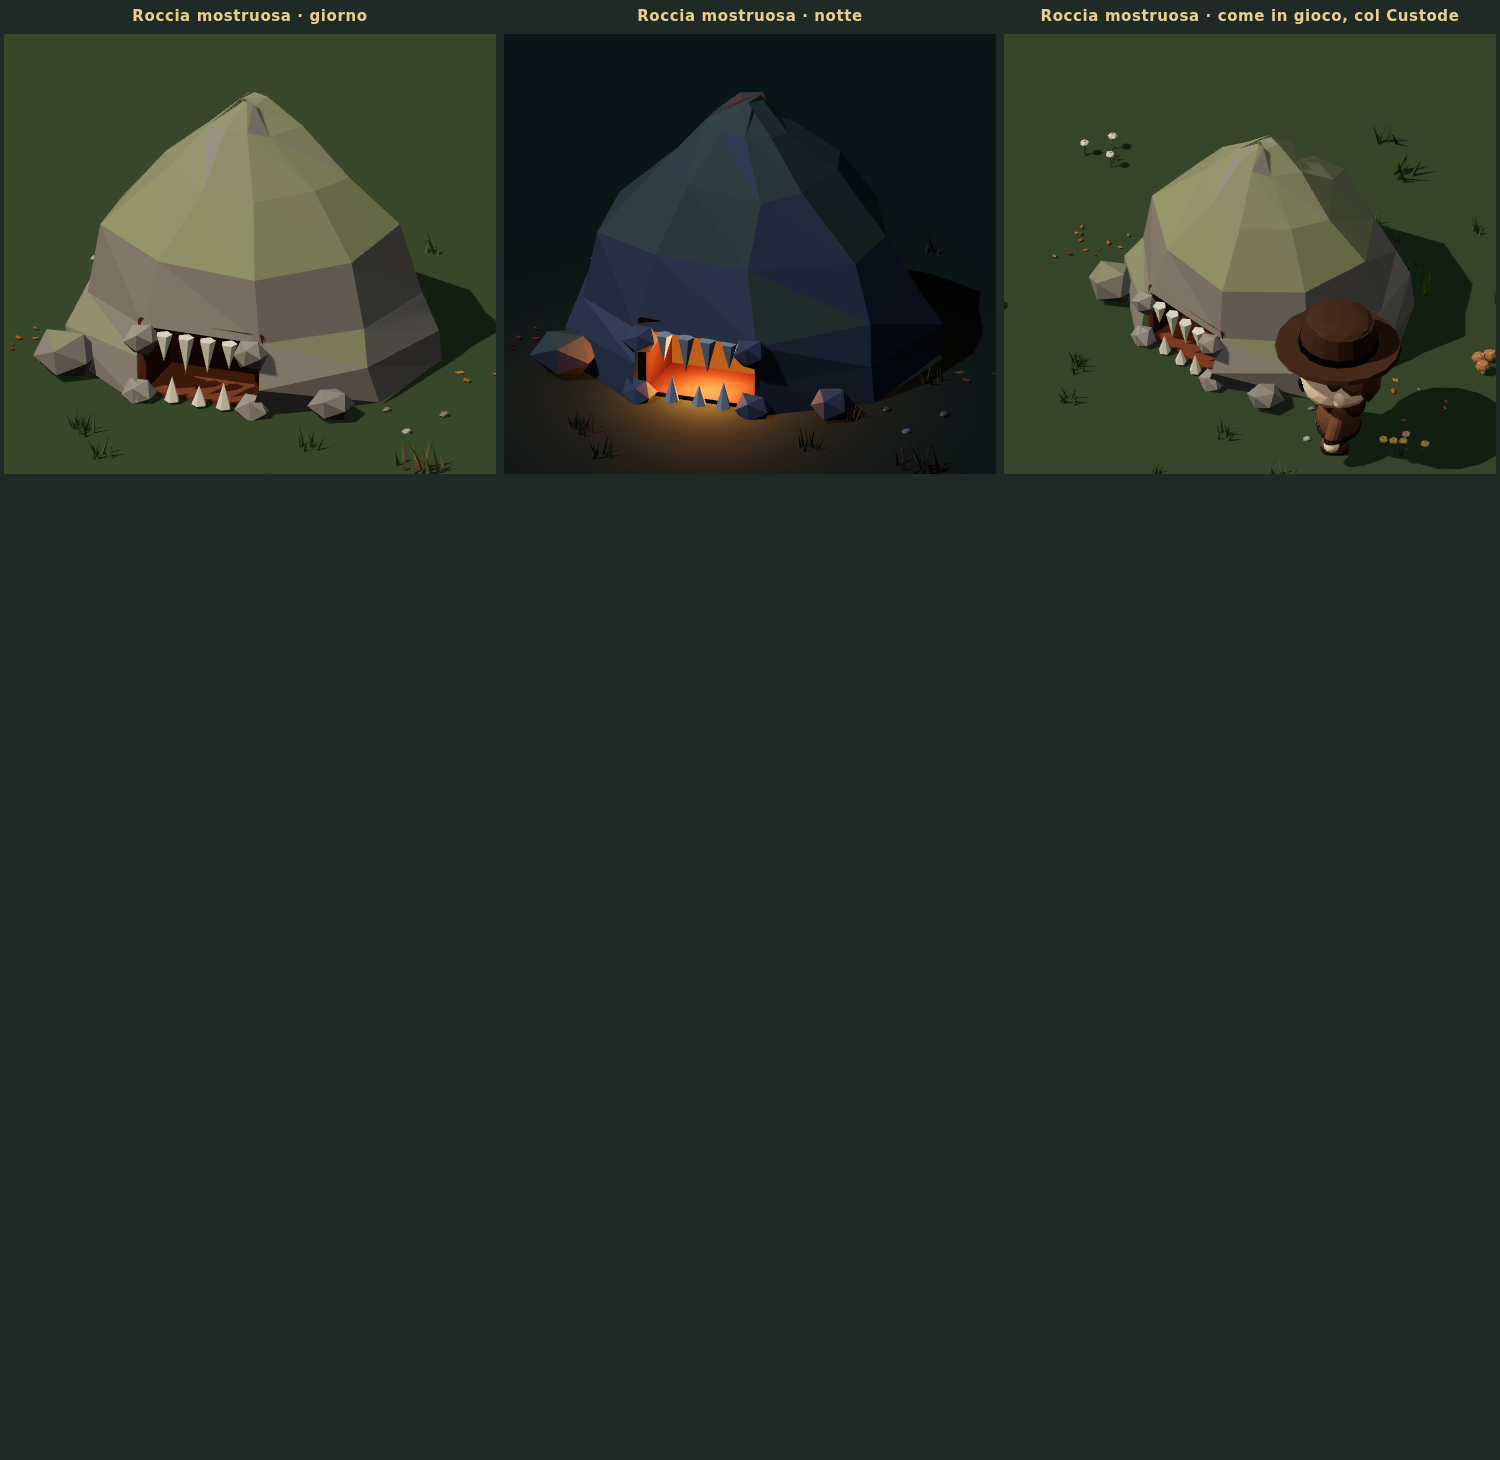
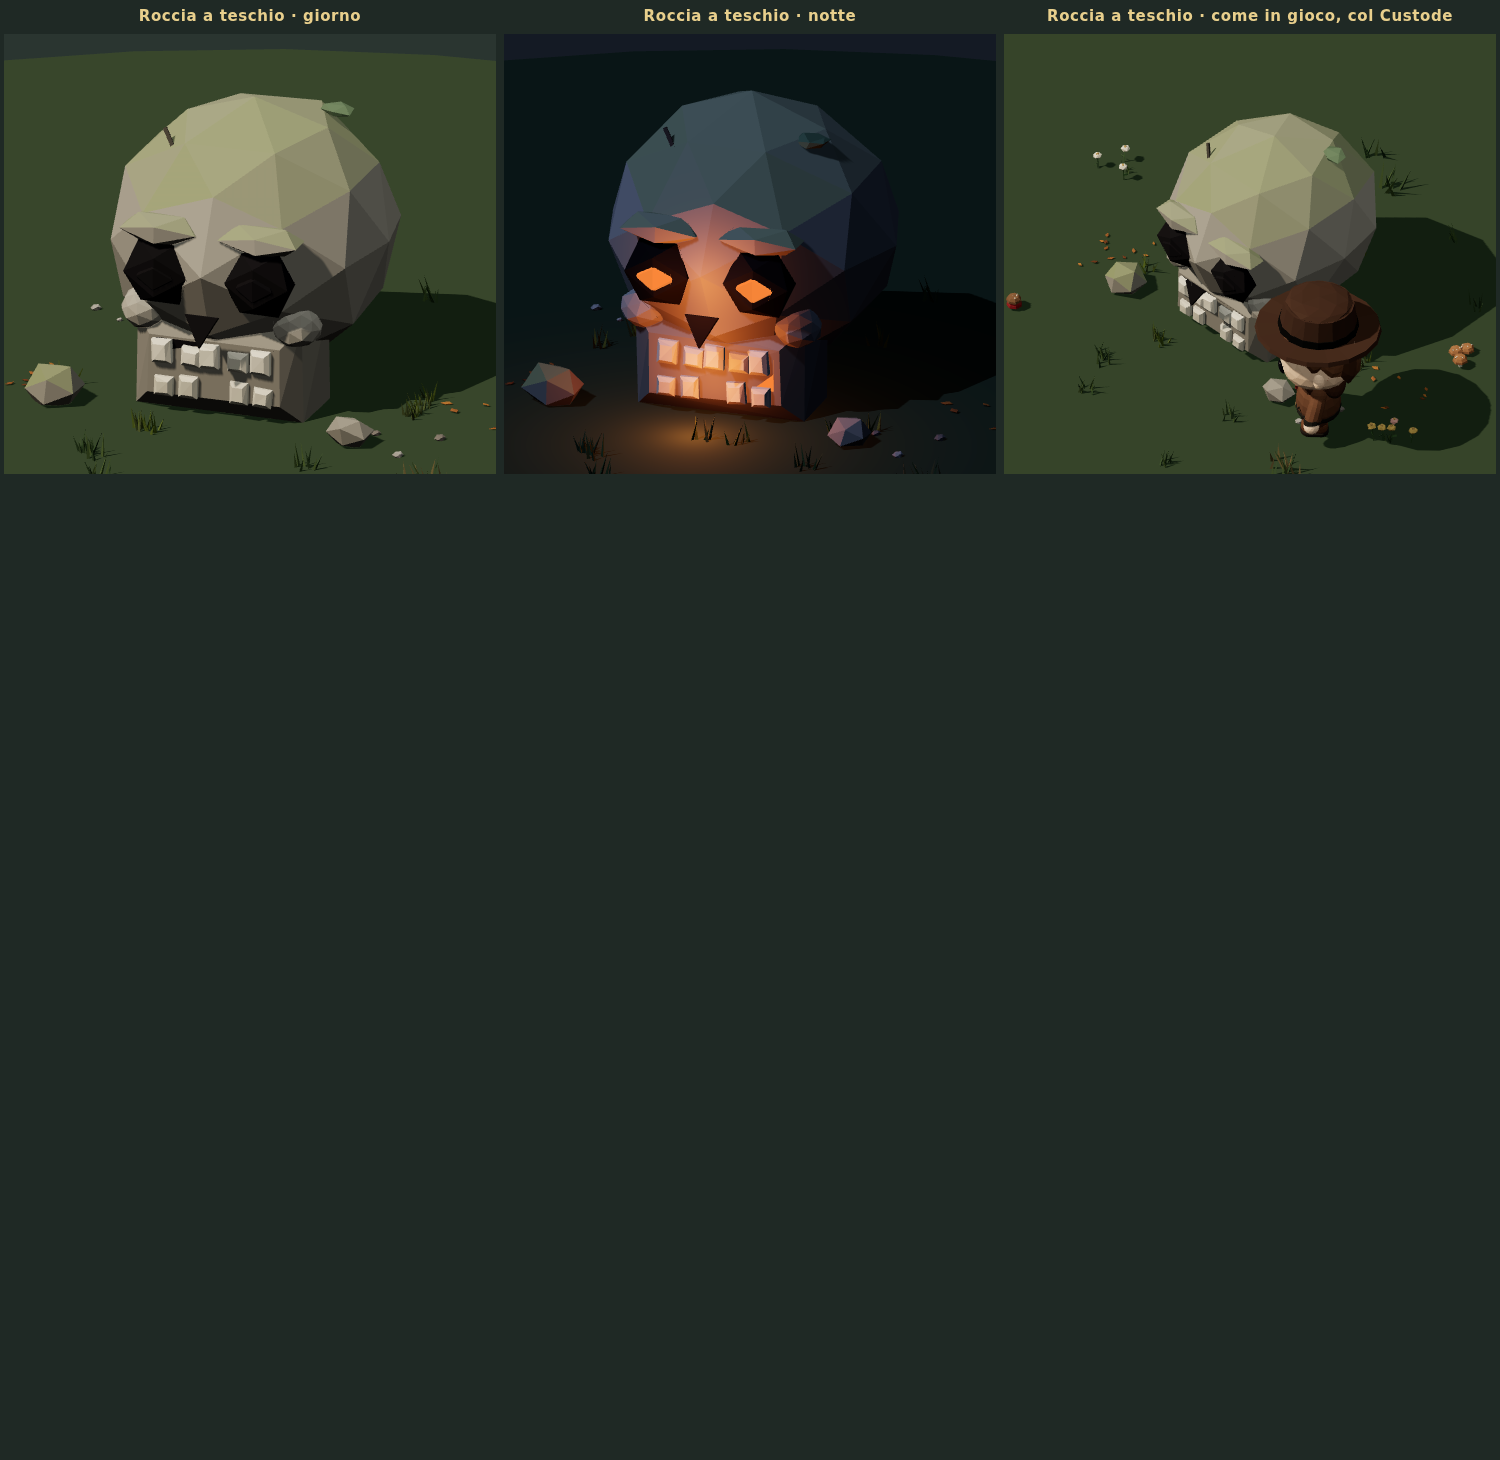
Anteprima: la roccia mostruosa diventa una roccia a teschio
Grande teschio di pietra mezzo interrato, col muschio sul cranio:
orbite profonde, naso a triangolo, denti un po' storti con la bocca buia
dietro, zigomi e arcate accennati, una crepa. Di notte orbite e bocca si
accendono.

Claude-Session: https://claude.ai/code/session_01U6u5RojYrwYjZd8sSRU7em

diff --git a/Prototype-3d/src/render/lowpoly/newItems2.ts b/Prototype-3d/src/render/lowpoly/newItems2.ts
@@ -475,42 +475,47 @@ export function witchAppleLP(lit = true): LPModel {
 }
 
 /**
- * Roccia mostruosa (3×3): una montagnola tonda di roccia a facce basse, col
- * muschio in cima; alla base, davanti, una piccola caverna a forma di bocca
- * con qualche zanna. Di notte la bocca si accende da dentro.
+ * Roccia a teschio (3×3): un grande teschio di pietra mezzo interrato, col
+ * muschio sul cranio. Orbite profonde, naso a triangolo, fila di denti con
+ * la bocca buia dietro. Di notte orbite e bocca si accendono.
  */
-export function fangRockLP(night: boolean): LPModel {
-  const lp = new LP(`new2:fang:${night}`);
+export function skullRockLP(night: boolean): LPModel {
+  const lp = new LP(`new2:skullrock:${night}`);
   const r = lp.rng;
-  const ROCK = '#86827d';
-  const o = { vary: 0.08, jitter: 0.14, ao: 0.3, topTint: '#73843c', topAmount: 0.5 };
-  const v = (pts: Array<[number, number]>) => pts.map(([x, y]) => new THREE.Vector2(x, y));
-  const SEG = 9, GAP = (40 * Math.PI) / 180; // la bocca occupa uno spicchio di 40° davanti, in basso
-  // anello basso con l'apertura davanti, cupola sopra intera (stessi vertici sul bordo)
-  lp.push([0, 0, 0], 0, 0, 0, [1.0, 1.0, 0.92]);
-  lp.add(new THREE.LatheGeometry(v([[1.32, 0], [1.29, 0.26], [1.22, 0.52]]), SEG - 1, GAP / 2, Math.PI * 2 - GAP), ROCK, o);
-  lp.pop();
-  lp.push([0, 0, 0], 0, 0, 0, [1.0, 1.0, 0.92]);
-  lp.add(new THREE.LatheGeometry(v([[1.22, 0.52], [1.0, 0.95], [0.66, 1.35], [0.3, 1.68], [0.06, 1.84], [0, 1.86]]), SEG, GAP / 2, Math.PI * 2), ROCK, o);
-  lp.pop();
-  // dentro la bocca: una piccola grotta calda (pavimento, pareti, volta, fondo)
-  const IN = night ? '#5a2e18' : '#5e3624', FLOOR = night ? '#7a401e' : '#73422a';
-  const zf = 1.0, zb = 0.45;
-  lp.box(0, 0, (zf + zb) / 2, 0.86, 0.03, zf - zb, FLOOR, { jitter: 0 });
-  lp.box(0, 0, zb, 0.9, 0.55, 0.06, night ? '#c8641e' : IN, night ? { bucket: 'glow', jitter: 0 } : { jitter: 0 });
-  for (const sx of [-1, 1]) lp.box(sx * 0.43, 0, (zf + zb) / 2, 0.06, 0.55, zf - zb, IN, { jitter: 0 });
-  lp.box(0, 0.5, (zf + zb) / 2, 0.9, 0.06, zf - zb, IN, { jitter: 0 });
-  // zanne: quattro che scendono dal bordo di sopra, tre che salgono dal pavimento
-  const TOOTH = '#ddd3bc';
-  // labbra di roccia agli angoli: la bocca si arrotonda
-  for (const [x, y] of [[-0.4, 0.45], [0.4, 0.45], [-0.42, 0.05], [0.42, 0.05]] as const) lp.blob(x, y, 1.1, 0.13, 0.12, 0.1, ROCK, { vary: 0.06, jitter: 0.03 });
-  for (const [x, h] of [[-0.24, 0.2], [-0.08, 0.26], [0.08, 0.24], [0.24, 0.19]] as const) lp.push([x, 0.5, 1.08], 0, Math.PI).cyl(0, 0, 0, 0.06, 0, h, 5, TOOTH, { jitter: 0 }).pop();
-  for (const [x, h] of [[-0.18, 0.18], [0.02, 0.14], [0.2, 0.19]] as const) lp.cyl(x, 0.02, 1.08, 0.055, 0, h, 5, TOOTH, { jitter: 0 });
-  // due sassi alla base e un po' d'erba
-  lp.blob(-1.05, 0.15, 0.85, 0.24, 0.18, 0.22, '#7a7672', { vary: 0.06, jitter: 0.04, topTint: '#73843c', topAmount: 0.4 });
-  lp.blob(0.95, 0.1, 0.95, 0.16, 0.12, 0.15, '#7a7672', { vary: 0.06, jitter: 0.03 });
-  for (let i = 0; i < 7; i++) { const a = r.range(0, 6.28); grassTuft(lp, Math.sin(a) * 1.4, Math.cos(a) * 1.4, 1.1, ['#6a7a34', '#55603a']); }
-  lp.light(0, 0.3, 0.85, '#ff9a4a', night ? 0.8 : 0.4, 2.6, 0.35, night ? 0.7 : 0.3);
+  const ST = '#a19c92', ST2 = '#8e897f';
+  const mossy = { topTint: '#73843c', topAmount: 0.55 };
+  const HOLE = night ? '#ff8a3a' : '#17151a';
+  const holeOpt = night ? { bucket: 'glow' as const, jitter: 0 } : { jitter: 0 };
+  // cranio e mascella superiore (il teschio affonda un po' nel terreno)
+  lp.blob(0, 1.0, -0.1, 0.92, 0.85, 0.95, ST, { detail: 1, vary: 0.06, jitter: 0.07, ao: 0.3, ...mossy });
+  lp.box(0, 0.0, 0.3, 1.1, 0.62, 0.7, ST2, { bevel: 0.12, vary: 0.06, jitter: 0.03, ao: 0.35 });
+  // zigomi e arcata sopraccigliare
+  for (const sx of [-1, 1]) {
+    lp.blob(sx * 0.5, 0.62, 0.52, 0.16, 0.13, 0.16, ST, { detail: 1, vary: 0.06, jitter: 0.02 });
+    lp.blob(sx * 0.33, 1.22, 0.7, 0.3, 0.1, 0.16, ST, { vary: 0.06, jitter: 0.02, ...mossy });
+  }
+  // orbite: incavi scuri, profondi (di notte brillano)
+  for (const sx of [-1, 1]) {
+    lp.blob(sx * 0.33, 0.95, 0.74, 0.25, 0.24, 0.14, '#17151a', { jitter: 0.01 });
+    lp.blob(sx * 0.33, 0.94, 0.8, 0.14, 0.13, 0.08, HOLE, holeOpt);
+  }
+  // naso: triangolo rovesciato scuro
+  const nose = new THREE.Shape(); nose.moveTo(-0.11, 0.0); nose.lineTo(0.11, 0.0); nose.lineTo(0, -0.2); nose.closePath();
+  lp.push([0, 0.74, 0.86], 0, -0.25).plate(nose, 0.03, '#17151a', { ao: 0 }).pop();
+  // bocca: fessura buia dietro a una fila di denti squadrati
+  lp.box(0, 0.22, 0.62, 0.78, 0.26, 0.05, HOLE, holeOpt);
+  for (let k = 0; k < 5; k++) {
+    const x = -0.32 + k * 0.16 + r.range(-0.015, 0.015);
+    lp.push([x, 0, 0.66], r.range(-0.1, 0.1), 0, r.range(-0.08, 0.08)).box(0, 0.33, 0, 0.13, 0.15 - (k % 2) * 0.03, 0.09, '#d6cfbf', { bevel: 0.025, jitter: 0.006 }).pop();
+    if (k !== 2) lp.push([x, 0, 0.66], r.range(-0.1, 0.1), 0, r.range(-0.08, 0.08)).box(0, 0.12, 0, 0.12, 0.12 + (k % 2) * 0.02, 0.09, '#cbc4b3', { bevel: 0.025, jitter: 0.006 }).pop();
+  }
+  // crepa sul cranio, muschio, erba e sassi alla base
+  for (const [x, y, z, a] of [[-0.35, 1.55, 0.35, 0.6], [-0.2, 1.45, 0.5, -0.4]] as const) lp.push([x, y, z], 0, -0.6, a).box(0, 0, 0, 0.025, 0.22, 0.02, '#4a4640', { jitter: 0 }).pop();
+  for (let i = 0; i < 4; i++) moss(lp, r.range(-0.6, 0.6), r.range(1.4, 1.75), r.range(-0.6, 0.2), 0.12);
+  lp.blob(-1.05, 0.1, 0.7, 0.2, 0.15, 0.18, ST2, { vary: 0.06, jitter: 0.03, ...mossy });
+  lp.blob(0.95, 0.08, 0.8, 0.15, 0.1, 0.14, ST2, { vary: 0.06, jitter: 0.03 });
+  for (let i = 0; i < 9; i++) { const a = r.range(0, 6.28); grassTuft(lp, Math.sin(a) * 1.15, Math.cos(a) * 1.05, 1.1, ['#6a7a34', '#55603a']); }
+  if (night) { lp.light(0, 0.9, 1.2, '#ff8a3a', 0.3, 2.4, 0.35, 0.6); lp.light(0, 0.25, 1.0, '#ff8a3a', 0.2, 1.8, 0.35, 0.4); }
   return lp.build();
 }
 

diff --git a/Prototype-3d/src/proto/items.ts b/Prototype-3d/src/proto/items.ts
@@ -270,7 +270,7 @@ function bellRung(): THREE.Group {
   return g;
 }
 
-function boulder(night: boolean): THREE.Group { return group(inst(M.fangRockLP(night)), lawn(1.65, 2.4, 16, 21)); }
+function boulder(night: boolean): THREE.Group { return group(inst(M.skullRockLP(night)), lawn(1.4, 2.2, 16, 21)); }
 
 function witch2(): THREE.Group {
   const w = witch(); w.position.set(0.85, 0, 0.0); w.rotation.y = -0.65;
@@ -404,9 +404,9 @@ const SETS: Record<string, Panel[]> = {
     { title: 'Gazebo delle anime · giorno', yaw: 0.6, zoom: 2.7, center: [0, 1.25, 0], build: () => gazebo2(false) },
     { title: 'Gazebo delle anime · di notte i fantasmi ballano', night: true, dusk: true, yaw: 0.6, zoom: 2.5, center: [0, 1.25, 0], build: () => gazebo2(true) },
     { title: 'Campana delle anime · suonata, arrivano i fantasmi', night: true, dusk: true, yaw: 0.5, zoom: 2.0, center: [0, 1.1, 0], build: bellRung },
-    { title: 'Roccia mostruosa · giorno', yaw: 0.35, pitch: 0.4, zoom: 1.5, center: [0, 0.7, 0], build: () => boulder(false) },
-    { title: 'Roccia mostruosa · notte', night: true, dusk: true, yaw: 0.35, pitch: 0.4, zoom: 1.5, center: [0, 0.7, 0], build: () => boulder(true) },
-    { title: 'Roccia mostruosa · come in gioco, col Custode', yaw: Math.PI / 4, pitch: 0.7, zoom: 1.9, center: [0, 0.7, 0.2], build: () => group(boulder(false), char('custode', 'idle', [1.0, 0, 1.25], -0.7)) },
+    { title: 'Roccia a teschio · giorno', yaw: 0.35, pitch: 0.35, zoom: 1.35, center: [0, 0.85, 0], build: () => boulder(false) },
+    { title: 'Roccia a teschio · notte', night: true, dusk: true, yaw: 0.35, pitch: 0.35, zoom: 1.35, center: [0, 0.85, 0], build: () => boulder(true) },
+    { title: 'Roccia a teschio · come in gioco, col Custode', yaw: Math.PI / 4, pitch: 0.7, zoom: 1.9, center: [0, 0.7, 0.2], build: () => group(boulder(false), char('custode', 'idle', [1.0, 0, 1.25], -0.7)) },
     { title: 'Cerchio di pietre nella nebbia', night: true, dusk: true, yaw: 0.5, pitch: 0.6, zoom: 1.75, center: [0, 0.4, 0], build: () => group(inst(M.stoneCircleLP()), lawn(1.5, 2.3, 18, 14)) },
     { title: 'Cipresso (al posto del salice)', yaw: 0.55, zoom: 1.8, center: [0, 1.4, 0], build: () => group(inst(M.cypressLP()), lawn(0.6, 1.6, 14, 15), char('custode', 'idle', [0.95, 0, -0.2], -0.9)) },
     { title: 'Melo stregato (altra idea)', night: true, dusk: true, yaw: 0.55, zoom: 1.35, center: [0, 0.9, 0], build: () => group(inst(M.witchAppleLP()), lawn(1.0, 1.8, 14, 17)) },
@@ -431,9 +431,9 @@ const SETS: Record<string, Panel[]> = {
     { title: 'Pupazzo di neve scheletro', yaw: 0.45, pitch: 0.35, zoom: 0.8, center: [0, 0.7, 0], build: snowman2 },
   ],
   '8': [
-    { title: 'Roccia mostruosa · giorno', yaw: 0.35, pitch: 0.4, zoom: 1.5, center: [0, 0.7, 0], build: () => boulder(false) },
-    { title: 'Roccia mostruosa · notte', night: true, dusk: true, yaw: 0.35, pitch: 0.4, zoom: 1.5, center: [0, 0.7, 0], build: () => boulder(true) },
-    { title: 'Roccia mostruosa · come in gioco, col Custode', yaw: Math.PI / 4, pitch: 0.7, zoom: 1.9, center: [0, 0.7, 0.2], build: () => group(boulder(false), char('custode', 'idle', [1.75, 0, 0.85], -0.8)) },
+    { title: 'Roccia a teschio · giorno', yaw: 0.35, pitch: 0.35, zoom: 1.35, center: [0, 0.85, 0], build: () => boulder(false) },
+    { title: 'Roccia a teschio · notte', night: true, dusk: true, yaw: 0.35, pitch: 0.35, zoom: 1.35, center: [0, 0.85, 0], build: () => boulder(true) },
+    { title: 'Roccia a teschio · come in gioco, col Custode', yaw: Math.PI / 4, pitch: 0.7, zoom: 1.9, center: [0, 0.7, 0.2], build: () => group(boulder(false), char('custode', 'idle', [1.45, 0, 0.8], -0.8)) },
   ],
 };
 
